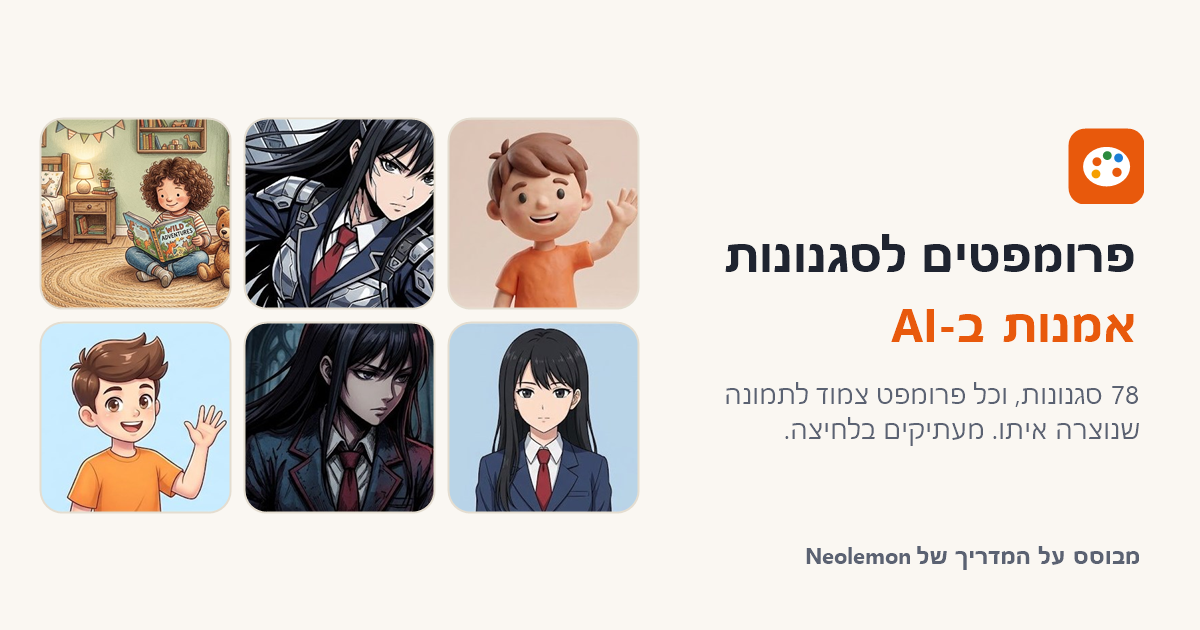
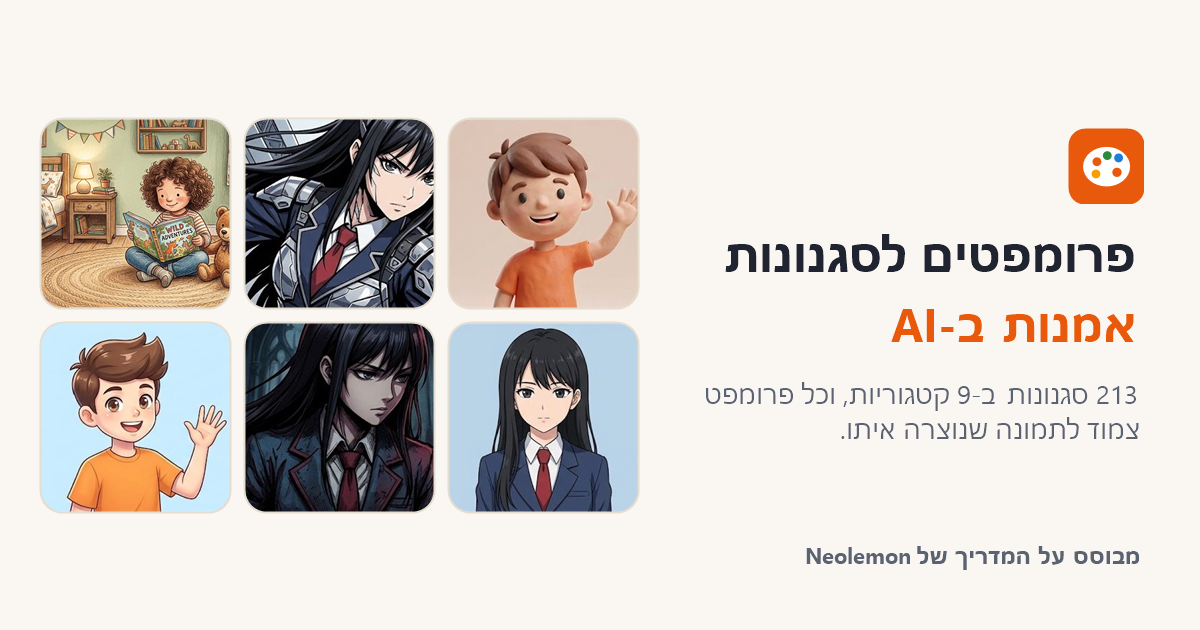
picprompt: 6 קטגוריות נוספות (213 סגנונות), דמות גברית בלבוש רחב בקומיקס וקלאסי

Changed region(s): [[0.5858, 0.6032, 0.9558, 0.6937]]

diff --git a/art-styles/index.html b/art-styles/index.html
@@ -14,7 +14,7 @@
 <meta property="og:type" content="website">
 <meta property="og:site_name" content="חולמים תקשוב">
 <meta property="og:title" content="פרומפטים לסגנונות אמנות ב-AI, כל אחד לצד התמונה שלו">
-<meta property="og:description" content="78 סגנונות בקריקטורה, ספרי ילדים ואנימה. רואים את התוצאה, מעתיקים את הפרומפט בלחיצה.">
+<meta property="og:description" content="213 סגנונות ב-9 קטגוריות, מקריקטורה ועד אמנות קלאסית. רואים את התוצאה, מעתיקים את הפרומפט בלחיצה.">
 <meta property="og:image" content="https://chepti.com/picprompt/og-image.png">
 <meta property="og:image:width" content="1200">
 <meta property="og:image:height" content="630">
@@ -22,7 +22,7 @@
 <meta property="og:locale" content="he_IL">
 <meta name="twitter:card" content="summary_large_image">
 <meta name="twitter:title" content="פרומפטים לסגנונות אמנות ב-AI, כל אחד לצד התמונה שלו">
-<meta name="twitter:description" content="78 סגנונות בקריקטורה, ספרי ילדים ואנימה. רואים את התוצאה, מעתיקים את הפרומפט בלחיצה.">
+<meta name="twitter:description" content="213 סגנונות ב-9 קטגוריות, מקריקטורה ועד אמנות קלאסית. רואים את התוצאה, מעתיקים את הפרומפט בלחיצה.">
 <meta name="twitter:image" content="https://chepti.com/picprompt/og-image.png">
 <style>
 :root{
@@ -129,7 +129,7 @@ footer a{color:var(--ink);font-weight:700;text-underline-offset:3px}
 <header class="hero">
   <div class="wrap">
     <h1>סגנונות אמנות ב-AI — פרומפט ליד התמונה שלו</h1>
-    <p>במקום לקרוא הסברים ארוכים, בוחרים קטגוריה, רואים את התוצאה, ומעתיקים את הפרומפט בלחיצה. גרסת ניסוי: שלוש קטגוריות.</p>
+    <p>במקום לקרוא הסברים ארוכים, בוחרים קטגוריה, רואים את התוצאה, ומעתיקים את הפרומפט בלחיצה.</p>
 
     <div class="credit" role="note">
       <div class="badge"><svg class="i"><use href="#i-heart"/></svg></div>
@@ -172,14 +172,18 @@ const SHEETS = {
   cartoon: BASE + "8ed70df7-1099-49c7-a4c2-b851878d185b.jpg",
   kids:    BASE + "de3ebede-c0e9-4a8c-a3ba-d2b4936eba79.jpg",
   anime:   BASE + "f052dee0-8c11-4b01-b303-bdf207aff07e.jpg",
+  modern:  BASE + "b574a0ae-6bc1-44a1-bc15-e570d3b2cc9f.jpg",
+  char:    BASE + "d6bd2f4e-1086-427a-845e-07d6c0ca08ba.jpg",
 };
-const SHEET_W = 2000, SHEET_H = 1116;
+const DIMS = { cartoon:[2000,1116], kids:[2000,1116], anime:[2000,1116], modern:[2000,2000], char:[2000,1493] };
 
 /* חיתוכים בפיקסלים של התמונה המקורית: x, y, רוחב, גובה */
 const CROPS = {
   cartoon: [[58,175,350,233],[434,175,368,245],[828,175,344,229],[1203,175,356,237],[1590,175,350,233]],
   kids:    [[76,16,510,340],[746,16,510,340],[1416,16,510,340],[76,394,510,340],[746,394,510,340],[1416,394,510,340],[76,762,510,340],[746,762,510,340],[1416,762,510,340]],
   anime:   [[75,90,420,280],[553,90,420,280],[1028,90,420,280],[1505,90,420,280],[75,620,420,280],[553,620,420,280],[1028,620,420,280],[1505,620,420,280]],
+  modern:  [[60,130,830,553],[1035,130,830,553],[60,1105,830,553],[1035,1105,830,553]],
+  char:    [[50,100,900,600],[1050,95,900,600],[40,790,900,600],[1060,800,900,600]],
 };
 
 const CATS = [
@@ -206,6 +210,51 @@ const CATS = [
       {he:"תקופה וז'אנר", en:"Era & Genre-Specific", p:[["retro 80s anime, film grain, muted neon palette","anime",2],["cyberpunk anime, neon rim light, high contrast","anime",4],["mecha anime, hard surface details, dramatic perspective"],["magical girl style, sparkles, pastel gradients, glossy highlights","anime",6],["dark fantasy anime, moody palette, sharp shadows"],["seinen style, more realistic proportions, subtle shading","anime",7]]},
       {he:"וריאציות אמנותיות", en:"Artistic Variations", p:[["ink brush manga, expressive brush strokes, high contrast"],["watercolor anime illustration, soft washes + crisp line art"],["anime concept art, painterly, soft edges, atmospheric depth"],["anime cel frame, slight grain, limited palette"]]},
       {he:"שימושים ייעודיים", en:"Specialty Applications", p:[["visual novel sprite style, clean line, simple shading, transparent bg"],["isekai fantasy anime, bright light, saturated colors"]]},
+    ]},
+  { id:"comic", he:"קומיקס", en:"Comic & Graphic Novel", groups:[
+      {he:"קומיקס קלאסי", en:"Classic Comics", p:[["classic comic book, bold inks, halftone dots, primary colors"],["modern graphic novel, clean inks, flat shading, muted palette"],["noir comic, heavy shadows, high contrast, rain, neon signs"],["indie comic, sketchy lines, watercolor washes"],["superhero comic, dynamic foreshortening, bold highlights"]]},
+      {he:"מסורות אירופיות", en:"European Traditions", p:[["european bande dessinee, clean line, flat colors, detailed backgrounds"],["ligne claire (clear line), consistent line weight, flat colors, minimal shading"],["retro pulp cover art, painted look, dramatic composition"]]},
+      {he:"הפקה וסטוריבורד", en:"Production & Storyboard", p:[["comic panel storyboard style, rough pencil, speech bubbles"],["inked storyboard frames, loose lines, grayscale wash"],["crosshatch comic shading, pen lines, textured shadows"]]},
+      {he:"אפקטי דפוס", en:"Print-Effect Styles", p:[["risograph comic, limited palette, misregistration texture"],["newspaper comic strip, simple line, flat color"],["graphic memoir style, soft line, muted color, quiet scenes"]]},
+      {he:"היברידי וז'אנרים", en:"Hybrid & Genre Styles", p:[["dark manga + western ink hybrid, heavy blacks, sharp line"],["watercolor graphic novel, painterly washes, ink outlines"],["neon cyberpunk comic, bright highlights, hard edges"],["sci-fi comic cover, airbrush gradients, chrome highlights"],["horror comic, gritty texture, heavy shadow, film grain"],["cute comic, thick outline, soft palette, simple backgrounds"]]},
+      {he:"טכני ועריכתי", en:"Technical & Editorial", p:[["“screentone” manga shading, dot patterns, ink line art"],["editorial cartoon, exaggerated features, bold lines"],["political cartoon ink wash, pen lines + ink shading"],["fantasy map illustration, ink lines, parchment texture"],["“comic splash page” composition, dramatic framing, action lines"]]},
+    ]},
+  { id:"classic", he:"אמנות קלאסית", en:"Classic Art Movements", groups:[
+      {he:"אימפרסיוניזם ופוסט-אימפרסיוניזם", en:"Impressionism & Post-Impressionism", p:[["impressionist oil painting, broken brushstrokes, light-filled color"],["post-impressionist, bold color blocks, expressive strokes"]]},
+      {he:"אמנות דקורטיבית", en:"Decorative Arts", p:[["art nouveau illustration, decorative lines, floral motifs, poster look"],["art deco poster, geometric forms, bold symmetry, luxury palette"]]},
+      {he:"מסורות ציור היסטוריות", en:"Historical Painting Traditions", p:[["romanticism painting, dramatic light, epic mood"],["renaissance portrait, soft chiaroscuro, classical composition"],["baroque painting, dramatic chiaroscuro, rich shadows"],["rococo pastel painting, ornate details, soft colors"]]},
+      {he:"זרמי אמנות מודרנית", en:"Modern Art Movements", p:[["surrealism, dream logic, uncanny objects"],["cubism, fragmented forms, geometric planes"],["futurism, motion lines, speed, angular forms"],["expressionism, bold strokes, emotional color"],["pop art, bold outlines, flat colors, comic dots"],["minimalism, simple forms, lots of negative space"]]},
+      {he:"מופשט וניסיוני", en:"Abstract & Experimental", p:[["abstract expressionism, energetic paint, gestural strokes"],["pointillism, dot-based color mixing, textured surface"],["op art, optical patterns, high contrast"],["suprematism, abstract shapes, minimal composition"],["color field painting, large flat color areas"],["metafictional collage, mixed media layers"]]},
+      {he:"זרמי עיצוב", en:"Design Movements", p:[["constructivist poster, propaganda layout, bold typography feel"],["bauhaus design, primary shapes, clean geometry"],["dada collage, cut-and-paste chaos, typography fragments"]]},
+      {he:"תרבותי ומסורתי", en:"Cultural & Traditional", p:[["symbolist painting, mystical mood, ornate imagery"],["naive folk art, simple perspective, bright colors"],["ukiyo-e woodblock print, flat color, bold outlines, patterned backgrounds"]]},
+      {he:"ספקטרום הריאליזם", en:"Realism Spectrum", p:[["romantic landscape painting, glowing skies, atmospheric depth"],["realism oil painting, detailed textures, natural light"],["hyperrealism, extreme detail, photo-like finish"],["fauvism, wild color, simplified forms"]]},
+    ]},
+  { id:"trad", he:"חומרים מסורתיים", en:"Traditional Media & Craft", groups:[
+      {he:"שרטוט וסקיצות", en:"Drawing & Sketching", p:[["graphite pencil sketch, light shading, paper texture"],["charcoal drawing, smudged shadows, gritty texture"],["ink pen sketch, hatching, sketchbook vibe"],["brush pen illustration, expressive line, ink bleed"]]},
+      {he:"חומרי ציור", en:"Painting Media", p:[["watercolor wash, transparent layers, soft edges"],["gouache painting, matte opacity, visible strokes"],["oil painting, thick impasto, canvas texture"],["acrylic painting, bold strokes, matte finish"],["pastel drawing, chalky texture, blended gradients"],["marker rendering, smooth gradients, design sketch vibe"]]},
+      {he:"הדפס", en:"Printmaking", p:[["linocut print, bold carved lines, high contrast"],["woodcut print, rough edges, carved texture"],["screenprint poster, flat inks, slight misregistration"],["risograph print, limited palette, grain, misaligned layers"]]},
+      {he:"מלאכה ותלת־ממד", en:"Crafts & 3D", p:[["paper cutout collage, layered paper edges, soft shadows"],["fabric applique, stitched edges, textile texture"],["embroidery illustration, thread texture, stitched lines"],["clay sculpture render, hand-molded texture, studio light"],["stop-motion puppet, fabric/foam texture, miniature set"],["origami style, folded paper geometry, crisp edges"]]},
+      {he:"טכניקות מיוחדות", en:"Specialty Techniques", p:[["stained glass art, bold lead lines, glowing color"],["mosaic art, tile texture, irregular pieces"],["scratchboard illustration, white-on-black etched lines"],["sumi-e ink painting, minimal brush strokes, empty space"],["calligraphy brush illustration, expressive strokes, ink pooling"]]},
+    ]},
+  { id:"retro", he:"רטרו ופוסטרים", en:"Retro & Poster Art", groups:[
+      {he:"טיולים ואמצע המאה", en:"Travel & Mid-Century", p:[["vintage travel poster, flat shapes, bold typography vibe"],["mid-century modern poster, geometric shapes, muted palette"],["swiss design poster, clean grid, minimal type feel"]]},
+      {he:"עתידנות וניאון", en:"Futurism & Neon", p:[["retro futurism poster, chrome gradients, neon accents"],["synthwave poster, magenta/cyan neon, grid horizon"],["vaporwave collage, pastel neon, glitch accents"]]},
+      {he:"לפי תקופה", en:"Era-Specific", p:[["y2k glossy sticker style, shiny gradients, bubbly shapes"],["80s airbrush illustration, smooth gradients, glossy highlights"],["70s psychedelic poster, wavy lines, saturated palette"]]},
+      {he:"תעמולה ורחוב", en:"Propaganda & Street", p:[["propaganda poster style, bold shapes, dramatic lighting"],["stencil street art, high contrast, spray texture"],["graffiti character, bold color, spray paint texture"]]},
+      {he:"עריכה ודפוס", en:"Editorial & Print", p:[["editorial magazine illustration, clean shapes, strong concept"],["newspaper print texture, halftone, rough paper"],["vintage comic cover, worn edges, faded ink"]]},
+      {he:"בהשראת הדפס", en:"Printmaking-Inspired", p:[["woodblock poster, carved lines, limited colors"],["risograph zine style, grainy ink, limited palette"]]},
+      {he:"מסחרי וקולנועי", en:"Commercial & Cinematic", p:[["minimalist product poster, lots of negative space, clean layout"],["cinematic movie poster illustration, dramatic composition, title-safe space"],["retro ad illustration, clean shading, optimistic vibe"]]},
+    ]},
+  { id:"modern", he:"דיגיטל מודרני", en:"Modern Digital Art", groups:[
+      {he:"קונספט ארט וציורי", en:"Concept Art & Painterly", p:[["painterly concept art, atmospheric depth, soft edges","modern",0],["semi-realistic digital painting, smooth blending, detailed features"],["stylized digital painting, exaggerated shapes, painterly light"],["matte painting, cinematic environment, detailed lighting"],["fantasy concept art, epic scale, dramatic skies"],["sci-fi concept art, hard surface details, neon accents"],["cozy digital illustration, soft palette, warm light"]]},
+      {he:"וקטורי ונקי", en:"Vector & Clean", p:[["minimal vector illustration, flat shapes, crisp edges","modern",1],["gradient mesh illustration, smooth modern gradients"],["3D-to-2D toon shader look, crisp edges, stylized shading"],["“clean UI illustration” style, corporate-ish but modern"],["isometric illustration, 30-45 degree angle, clean geometry"]]},
+      {he:"פיקסלים ולואו-פולי", en:"Pixel & Low-Poly", p:[["low-poly illustration, faceted shapes, simple lighting"],["pixel art illustration, 16-bit palette, crisp pixels","modern",2],["voxel art, blocky 3D pixels, simple shading"]]},
+      {he:"מבוסס אפקטים", en:"Effect-Driven", p:[["neon line illustration, glowing outlines, dark background","modern",3],["holographic iridescent style, rainbow sheen, glossy highlights"],["dreamy soft-focus illustration, bloom, gentle gradients"],["dark moody illustration, desaturated palette, rim light"],["“storybook 3D render” style, soft materials, bright light"]]},
+    ]},
+  { id:"char", he:"דפי דמות ואנימציה", en:"Character Sheet & Animation", groups:[
+      {he:"דפי דמות ודגמים", en:"Sheets & Models", p:[["character turnaround sheet, front side back views, clean background","char",0],["expression sheet, same head, multiple emotions, consistent lighting","char",1],["model sheet, consistent line weight, flat colors, callouts","char",2],["pose sheet, 8-12 poses, neutral background"],["3D character turnaround, studio light, neutral gray background"],["stop-motion puppet sheet, fabric texture, studio light"],["game character concept sheet, notes, props, silhouettes"],["paper doll character sheet, cutout limbs, pins/joints visible"]]},
+      {he:"פריימים והפקה", en:"Frames & Production", p:[["storyboard frames, rough line, grayscale wash","char",3],["clean animatic frame, flat shading, clear silhouettes"],["keyframe illustration, strong pose, cinematic lighting"],["toon shaded 3D character, crisp outlines, cel shading"],["“production ready” flat colors, clean edges, no noise"]]},
+      {he:"רקעים", en:"Backgrounds", p:[["animation background painting, painterly environment, soft depth"],["cel background style, soft gradients, minimal texture"]]},
     ]},
 ];
 
@@ -235,7 +284,8 @@ function fit(media){
   const cw = media.clientWidth, ch = media.clientHeight;
   if (!cw || !ch) return;
   const s = Math.max(cw / w, ch / h);
-  img.style.width  = SHEET_W * s + "px"; img.style.height = SHEET_H * s + "px";
+  const [SW, SH] = media._dim;
+  img.style.width  = SW * s + "px"; img.style.height = SH * s + "px";
   img.style.left = (-x*s - (w*s - cw)/2) + "px"; img.style.top = (-y*s - (h*s - ch)/2) + "px";
 }
 const ro = new ResizeObserver(es => es.forEach(e => fit(e.target)));
@@ -244,7 +294,7 @@ function mediaFor(sheet, idx, alt){
   const m = el("div","media");
   const img = new Image();
   img.src = SHEETS[sheet]; img.alt = alt; img.loading = "lazy"; img.referrerPolicy = "no-referrer"; img.draggable = false;
-  const clip = el("div","clip"); clip.appendChild(img); m.appendChild(clip); m._crop = CROPS[sheet][idx];
+  const clip = el("div","clip"); clip.appendChild(img); m.appendChild(clip); m._crop = CROPS[sheet][idx]; m._dim = DIMS[sheet];
   ro.observe(m);
   return m;
 }
